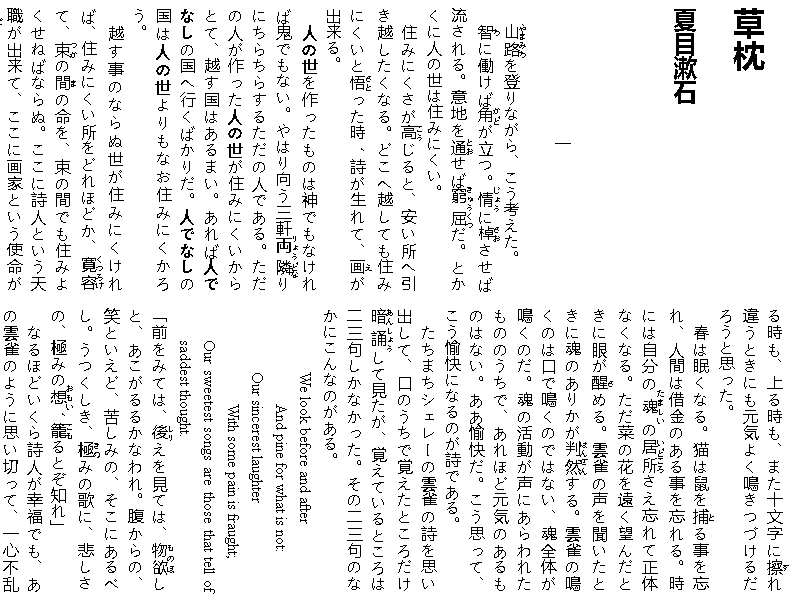
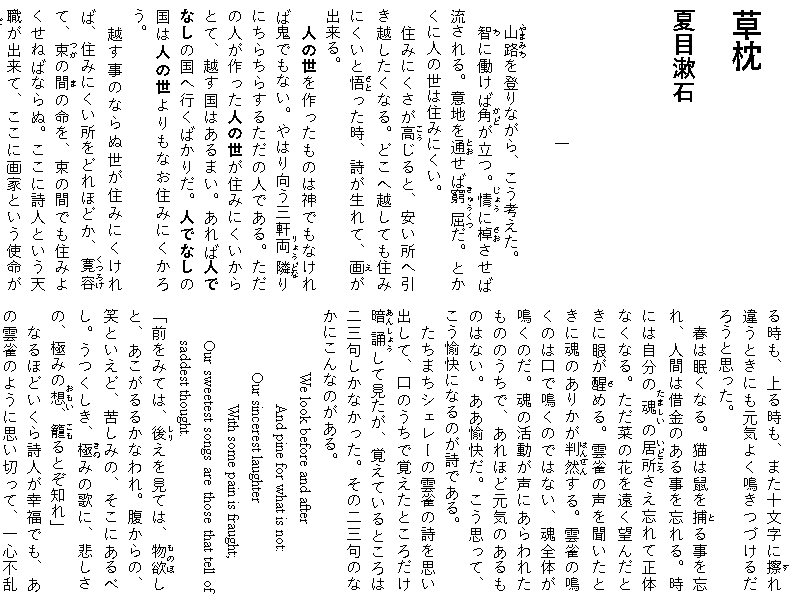
Specify lang="ja" to Kusa-Makura-background-canvas.html
It's a test for Japanese text, however `xml:lang="ja"` was not
recognized because it is not loaded as an XHTML. A Chinese font was
applied to the test unexpectedly on Windows.

This CL updates the attribute to `lang="ja"`.

Auto-Submit: Kent Tamura <tkent@chromium.org>
Commit-Queue: Kent Tamura <tkent@chromium.org>
Commit-Queue: Koji Ishii <kojii@chromium.org>
Cr-Commit-Position: refs/heads/main@{#1720338}

diff --git a/web_tests/fast/writing-mode/Kusa-Makura-background-canvas.html b/web_tests/fast/writing-mode/Kusa-Makura-background-canvas.html
@@ -1,11 +1,9 @@
-<?xml version="1.0" encoding="utf-8"?>
-<!DOCTYPE html PUBLIC "-//W3C//DTD XHTML 1.1//EN"
-    "http://www.w3.org/TR/xhtml11/DTD/xhtml11.dtd">
+<!DOCTYPE html>
 <!--
   This is a rendering test for background painting in vertical-rl.
   Also, this tests justification for vertical Japanese text and <ruby>.
 -->
-<html xmlns="http://www.w3.org/1999/xhtml" xml:lang="ja" >
+<html lang="ja">
 <head>
 	<meta http-equiv="Content-Type" content="text/html;charset=utf-8" />
 	<title>夏目漱石 草枕</title>
